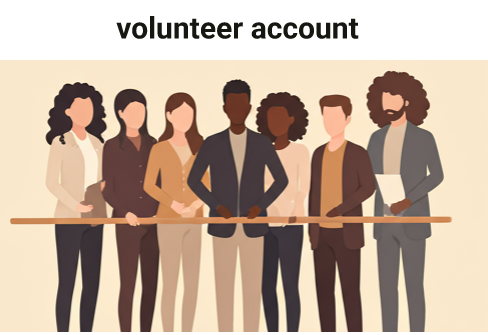
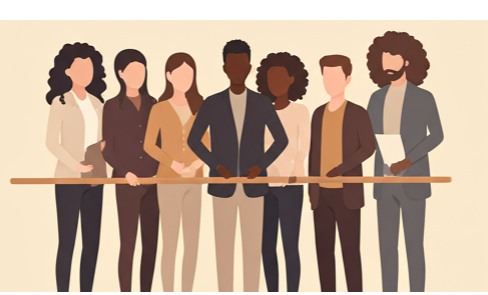
fix

diff --git a/app/register.tsx b/app/register.tsx
@@ -38,7 +38,7 @@ export default function RegisterScreen() {
         <View style={styles.container}>
             <View style={styles.content}>
                 {/* Imagen superior */}
-                <Text style={styles.title}>Volunteer Intranet</Text>
+                <Text style={styles.title}>Volunteer Account</Text>
                 <Image
                     source={require('../assets/images/Volunteer_account.png')}
                     style={styles.headerImage}
